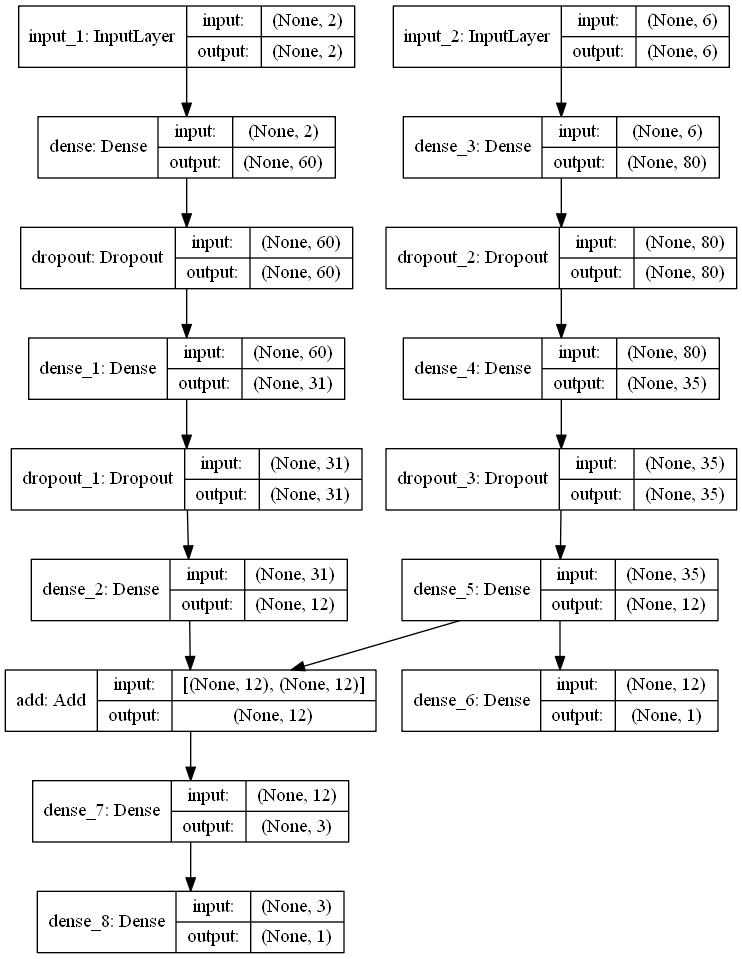
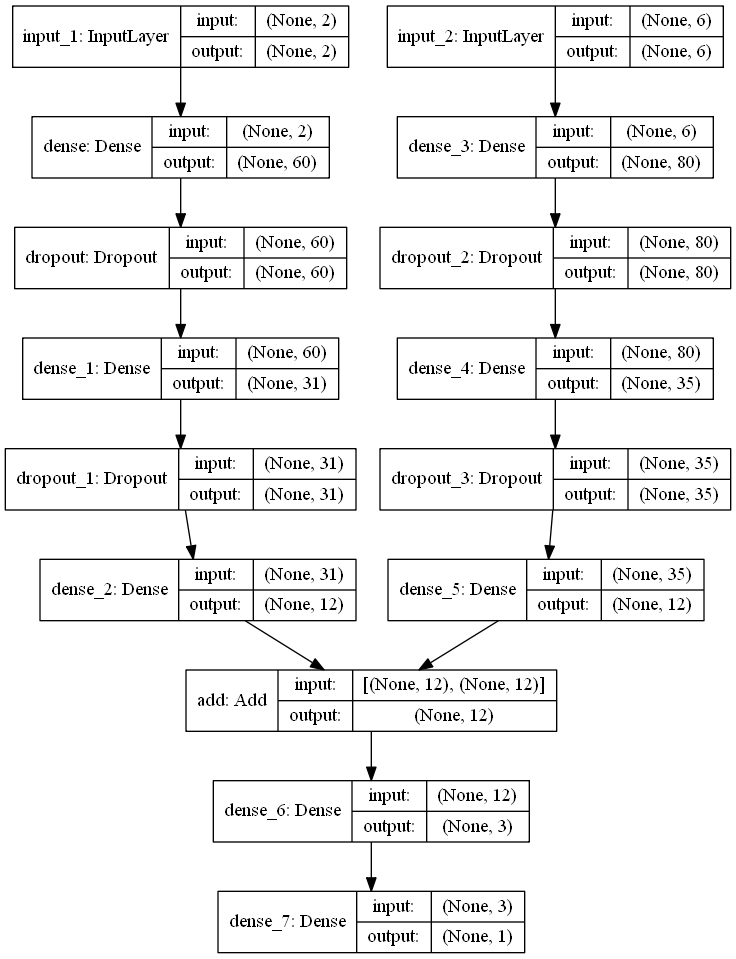
Update

diff --git a/tensorflow/Intro/kera_multi_input_functional.py b/tensorflow/Intro/kera_multi_input_functional.py
@@ -139,7 +139,7 @@ dense2b = tf.keras.layers.Dense(12, activation='relu')(dropout2)
 # dense2b = tf.keras.layers.Dense(3, activation='softmax')(dense22b)
 
 # Add output1 layers
-output1 = tf.keras.layers.Dense(1)(dense2b)
+# output1 = tf.keras.layers.Dense(1)(dense2b)
 
 # Merge model outputs
 merged = tf.keras.layers.add([dense2, dense2b])
@@ -152,8 +152,8 @@ merged = tf.keras.layers.Dense(1)(merged)
 
 # Define functional model
 # pass in input tensor and merged output layer
-model = tf.keras.Model(inputs=[inputlayer1, inputlayer2], outputs=[merged, output1])
-# model = tf.keras.Model(inputs=[inputlayer1, inputlayer2], outputs=merged)
+# model = tf.keras.Model(inputs=[inputlayer1, inputlayer2], outputs=[merged, output1])
+model = tf.keras.Model(inputs=[inputlayer1, inputlayer2], outputs=merged)
 
 
 # # Compile the model
@@ -175,8 +175,8 @@ plt.show()
 
 # Add the number of epochs and the validation split
 # history = model.fit([data1, data2], [ytrain, ytrain], epochs=500, steps_per_epoch=20)
-history = model.fit([xtrain, xtrain2], [ytrain, ytrain], epochs=200, validation_split=0.1)
-# history = model.fit([xtrain, xtrain2], ytrain, epochs=350, validation_split=0.2)
+# history = model.fit([xtrain, xtrain2], [ytrain, ytrain], epochs=200, validation_split=0.1)
+history = model.fit([xtrain, xtrain2], ytrain, epochs=350, validation_split=0.1)
 # colnames = 'loss output2_loss output1_loss output2_mae output1_mae'.split()
 
 hist = pd.DataFrame(history.history)
@@ -203,9 +203,9 @@ plt.show()
 
 
 # Evaluate the model
-# loss, mae = model.evaluate([xtest, xtest2], ytest, verbose=0)
-loss, loss2, loss1, mae2, mae1 = model.evaluate([xtest, xtest2], [ytest, ytest], verbose=0)
-# print(f'Mean absolute error = {mae:.2f}')
-print(f'Mean absolute error = {mae2:.2f}')
+loss, mae = model.evaluate([xtest, xtest2], ytest, verbose=0)
+# loss, loss2, loss1, mae2, mae1 = model.evaluate([xtest, xtest2], [ytest, ytest], verbose=0)
+print(f'Mean absolute error = {mae:.2f}')
+# print(f'Mean absolute error = {mae2:.2f}')
 
 
